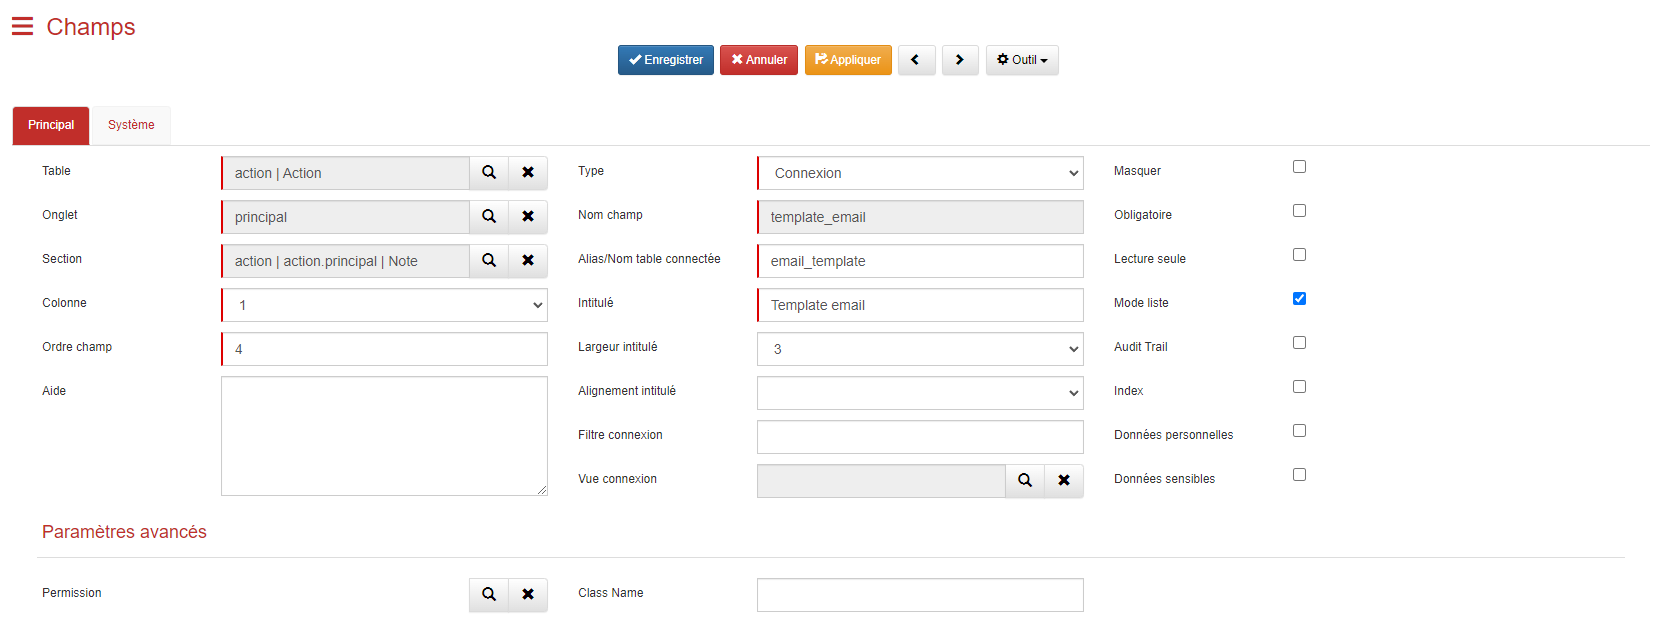
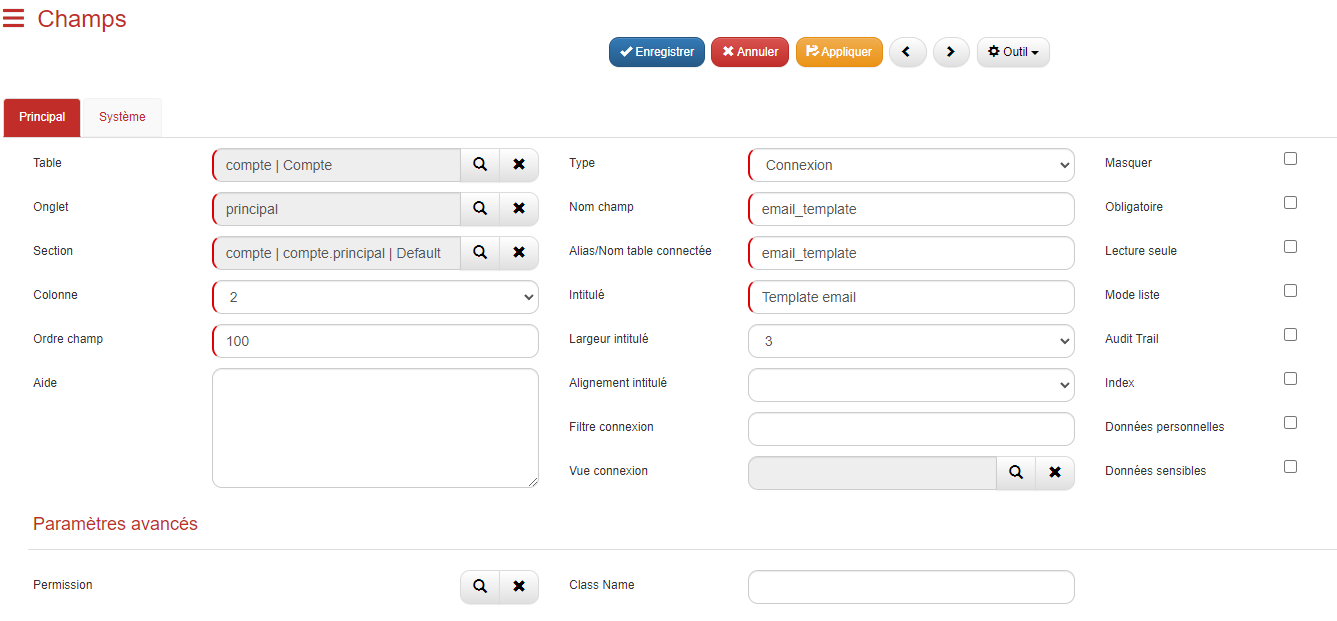
Update

diff --git a/Note_technique/Modele_Email/readme.md b/Note_technique/Modele_Email/readme.md
@@ -96,19 +96,11 @@ $.get("webservice/item/get-item.php", {
 
 #### Instructions pour utiliser le modèle d'email dans une fiche action :
 
-1. **Création du champ `Template email` :** : 
-   - Direction la liste des tables de votre application et recherché la table "action".
-      <img src="./images/image14.png" width="30%" alt="Hearder Top" style="border-radius: 5px;"/>
-
-   - Cliquez sur le **Form Designer** en utilisant le menu **Outil**.
-      <img src="./images/image5.png" width="100%" alt="Hearder Top" style="border-radius: 5px;"/>
-   
-   - Après avoir ouvert le Form Designer, cliquez sur le bouton **+** dans la section de votre choix.
-      <img src="./images/image6.png" width="100%" alt="Hearder Top" style="border-radius: 5px;"/>
-   
+1. **Création du champ `Template email` :** 
    - Configurez ce champ avec le **Type** "Connexion" (avec affichage en mode liste ou pas, selon votre préférence).
    
    - Enregistrez votre fiche.
+      <br>
      <img src="./images/image7.png" width="100%" alt="Hearder Top" style="border-radius: 5px;"/>
 
 2. **Ajout de champs supplémentaires :**
@@ -124,29 +116,20 @@ $.get("webservice/item/get-item.php", {
 
       <img src="./images/image10.png" width="100%" alt="Hearder Top" style="border-radius: 5px;"/>
 
-3. **Rafraîchissement du Form Designer :**
-   - Après avoir enregistré, cliquez sur le bouton  <img src="./images/image12.png" width="4%" alt="Hearder Top" style="border-radius: 2px;"/> pour rafraîchir le Form Designer.
-
-      <img src="./images/image11.png" width="100%" alt="Hearder Top" style="border-radius: 5px;"/>
-
-   - Ensuite, sélectionnez **Rebuild templates** dans le menu pour reconstruire les templates.
-   
-      <img src="./images/image13.png" width="30%" alt="Hearder Top" style="border-radius: 5px;"/>
-
-4. **Personnalisation du Script JS :**
+3. **Personnalisation du Script JS :**
    - Fermez le Form Designer et rouvrez la fiche de votre table action.
    - Accédez à l'onglet **Script JS** pour insérer le script JavaScript précédemment fourni.
-   - **Important** : Ce script doit être adapté selon que vous avez coché ou non l'affichage en mode liste pour le champ `template_email`.
+   - **Important** : Ce script doit être adapté selon que vous avez coché ou non l'affichage en mode liste pour le champ `email_template`.
 
       <img src="./images/image15.png" width="100%" alt="Hearder Top" style="border-radius: 5px;"/>
 
-5. **Script pour détection du changement (mode liste activé) :**
-   - Si vous avez coché l'affichage en **mode liste**, ajoutez ce script pour détecter les changements dans le champ `template_email` :
+4. **Script pour détection du changement (mode liste activé) :**
+   - Si vous avez coché l'affichage en **mode liste**, ajoutez ce script pour détecter les changements dans le champ `email_template` :
 
    ```javascript
    function onLoad_action() {
      var thisComponent = this;
-     thisComponent.ui.find('#select_template_email').on('change', function() {
+     thisComponent.ui.find('#select_email_template').on('change', function() {
        // Récupération de la clef du modèle d'email depuis une connexion située sur la fiche action.
        var cleTemplate = $(this).val();
 
@@ -173,7 +156,7 @@ $.get("webservice/item/get-item.php", {
            thisComponent.ui.find('#cke_note .cke_wysiwyg_frame').contents().find("html >body").html(data.message);
          });
          // On vide le champ connexion après avoir fusioné le modèle.
-         thisComponent.setConnectionValue('template_email', 'email_template', "");
+         thisComponent.setConnectionValue('email_template', 'email_template', "");
        });
 
      }); 
@@ -182,15 +165,15 @@ $.get("webservice/item/get-item.php", {
    }
    ```
 
-6. **Script pour détection du changement (mode liste non activé) :**
+5. **Script pour détection du changement (mode liste non activé) :**
    - Si vous n'avez pas coché l'affichage en mode liste, utilisez le script suivant :
 
    ```javascript
    function onLoad_action() {
      var thisComponent = this;
-     thisComponent.ui.find('#template_email').on('change', function() {
+     thisComponent.ui.find('#email_template').on('change', function() {
        // Récupération de la clef du modèle d'email depuis une connexion située sur la fiche action.
-       var cleTemplate = thisComponent.getValue('template_email');
+       var cleTemplate = thisComponent.getValue('email_template');
 
        $.get("webservice/item/get-item.php", {
          tableName: "email_template",
@@ -216,7 +199,7 @@ $.get("webservice/item/get-item.php", {
            thisComponent.ui.find('#cke_note .cke_wysiwyg_frame').contents().find("html >body").html(data.message);
          });
          // On vide le champ connexion après avoir fusioné le modèle.
-         thisComponent.setConnectionValue('template_email', 'email_template', "");
+         thisComponent.setConnectionValue('email_template', 'email_template', "");
        });
 
      }); 
